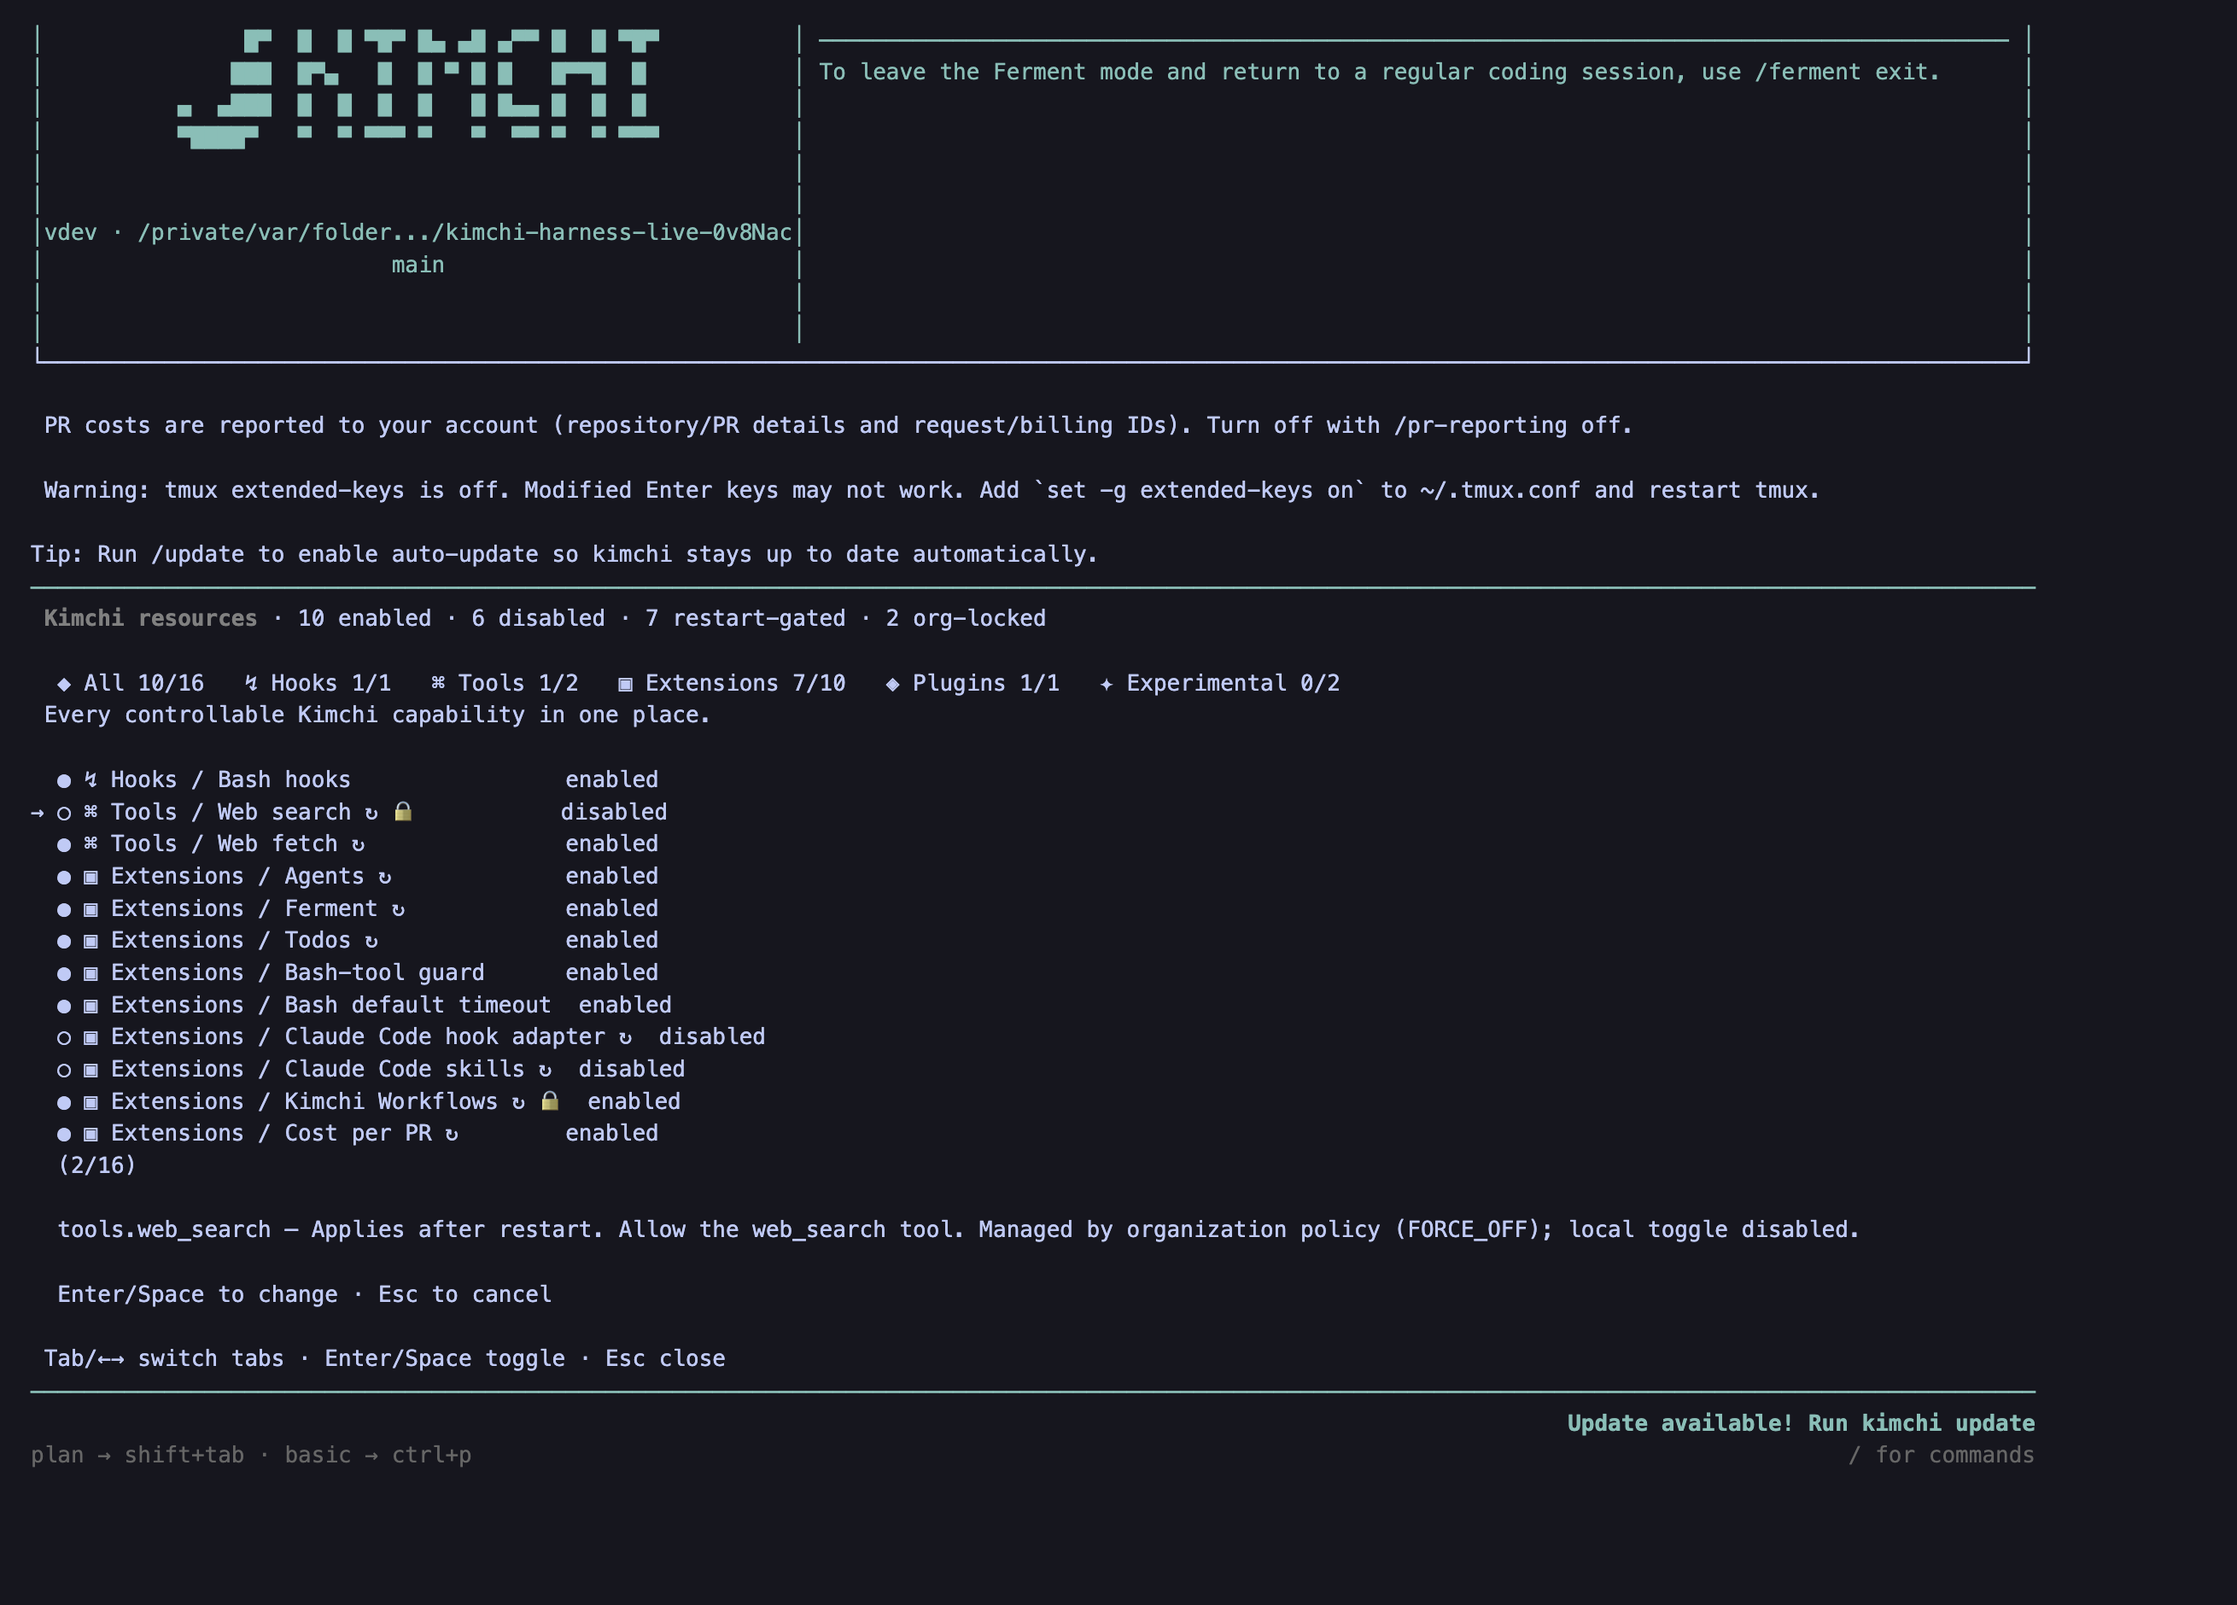
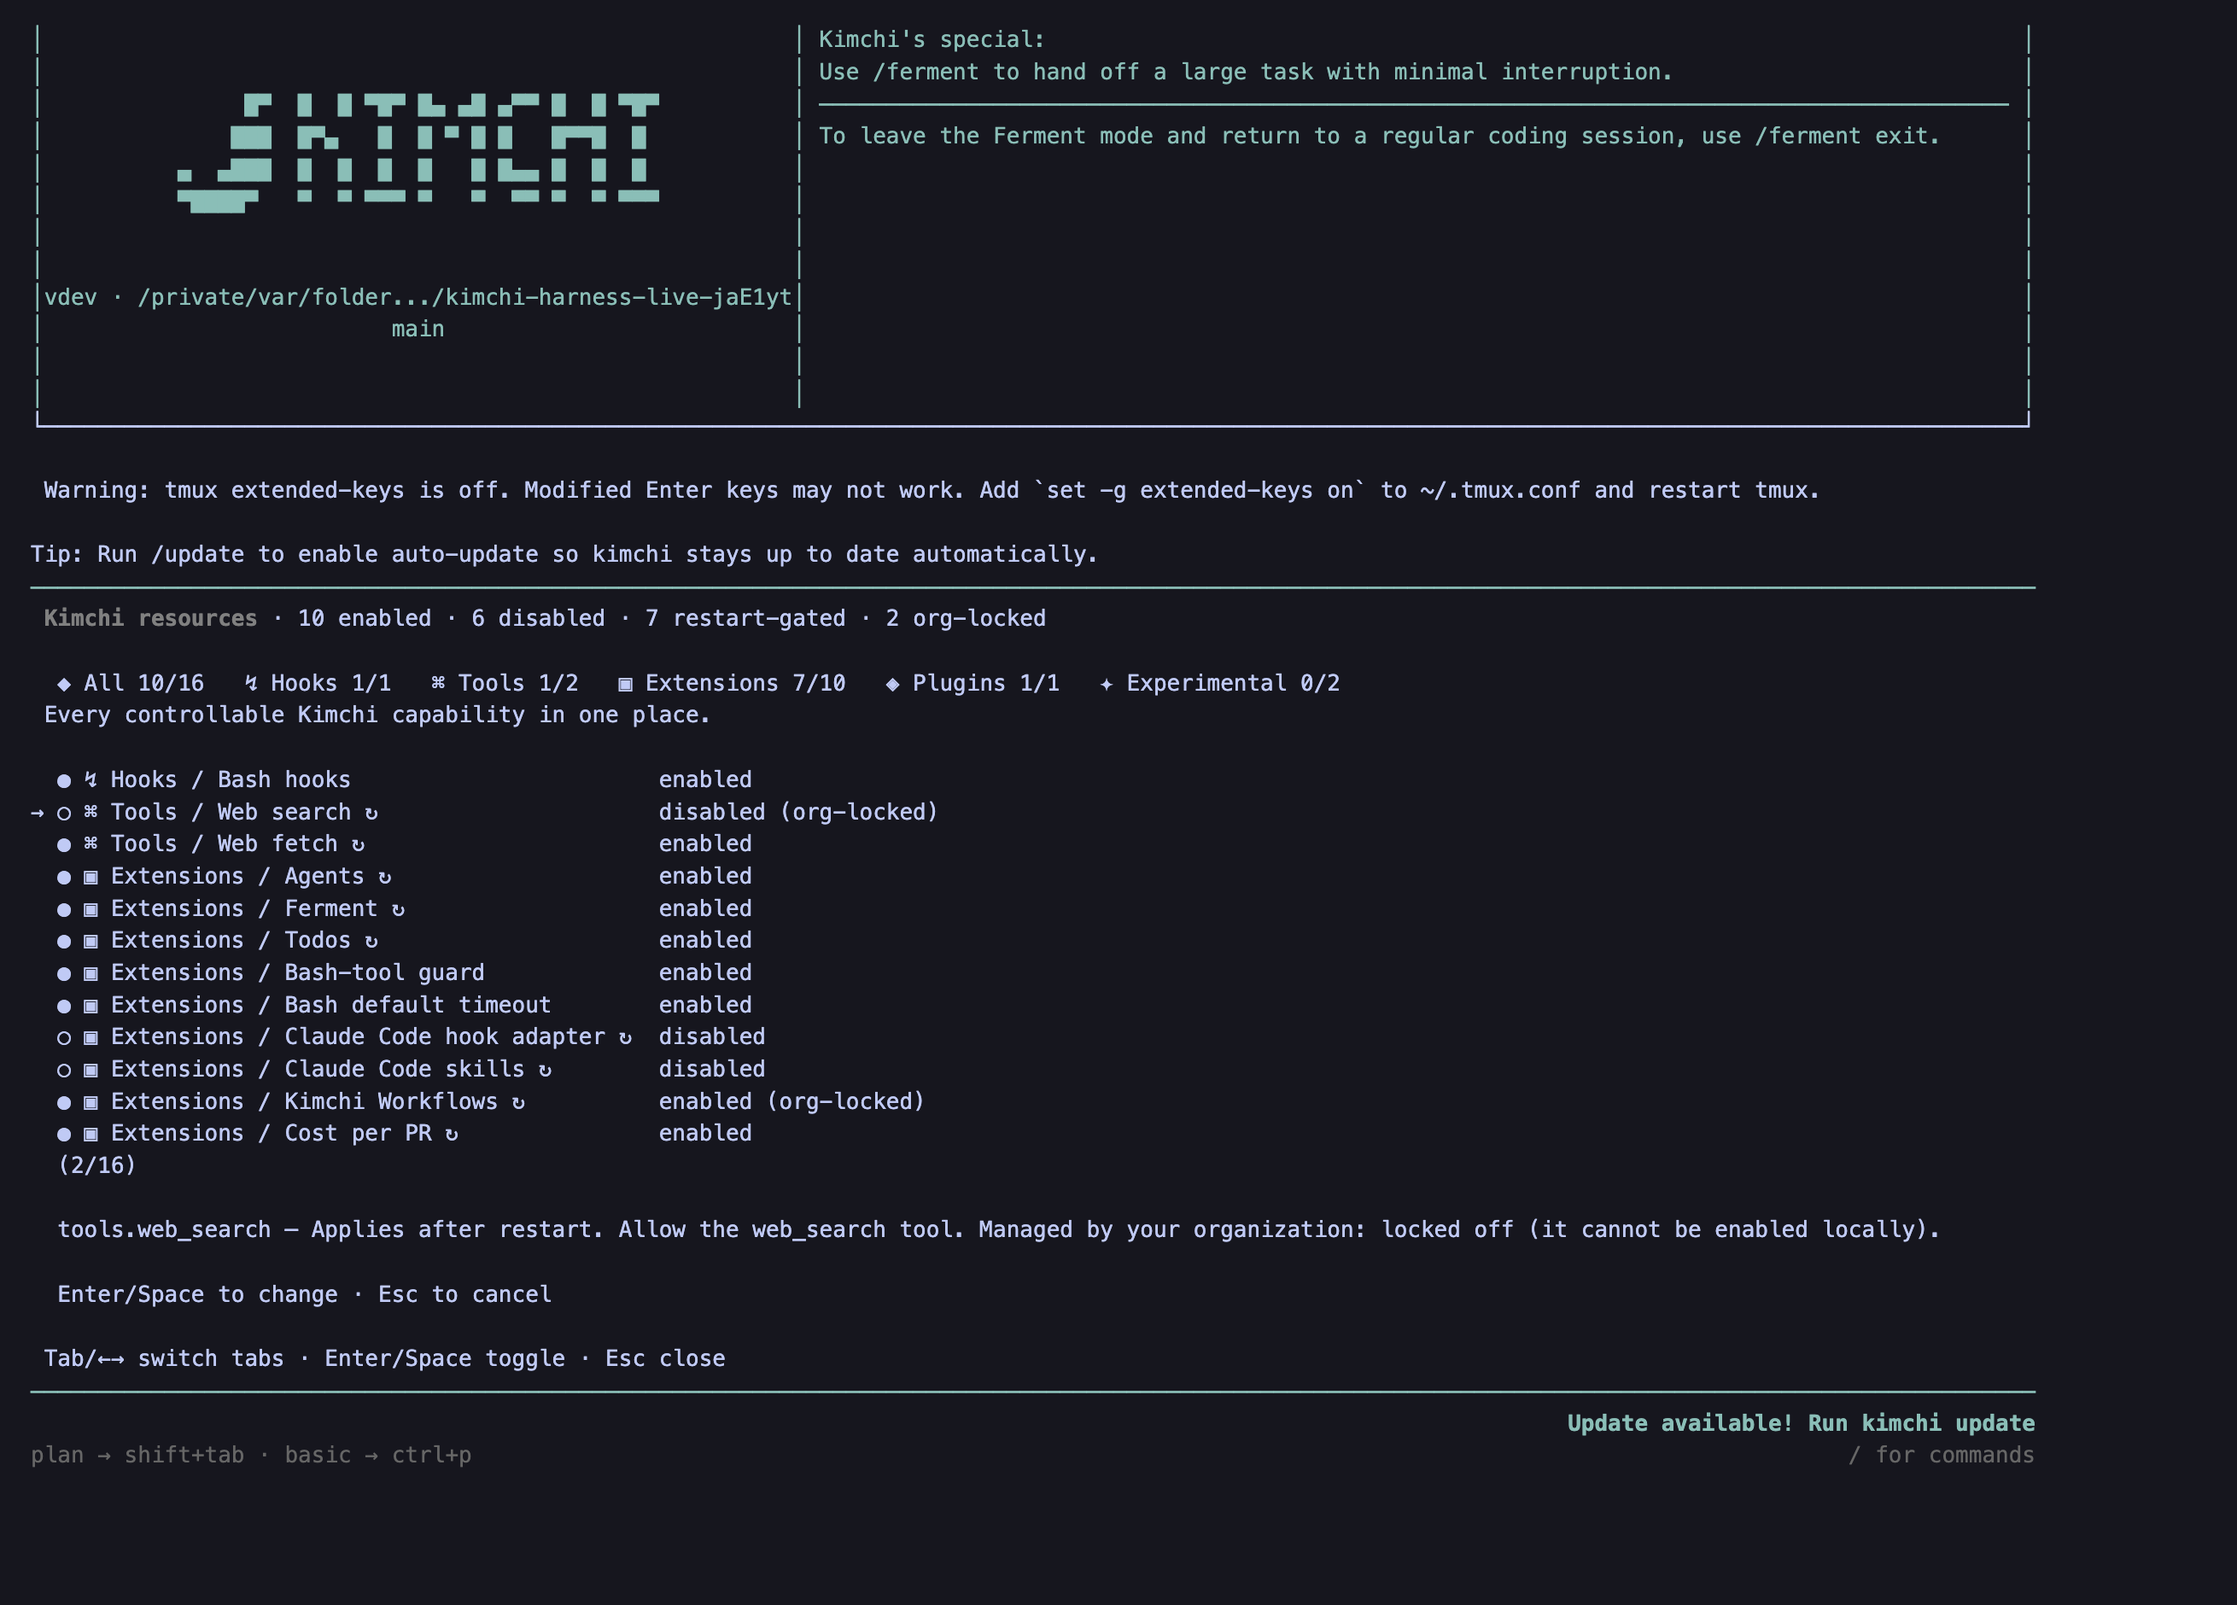
fix(resources): human org-policy wording; aligned /resources value column
User-facing surfaces no longer print raw API enum values: the /resources
value column shows enabled/disabled (org-locked), the selected row's
note says what the lock means in plain words (locked on/off and what it
prevents), and the shared refusal message reads the same way.

The overlay also pads every row label to one shared visible width so
the value column starts at the same column in every row (SettingsList
only pads up to a 36-column cap, which these labels overflow, and the
previous inline lock emoji measured 1 column but rendered as 2).

diff --git a/src/resources/ui.ts b/src/resources/ui.ts
@@ -1,7 +1,22 @@
 import { getSettingsListTheme, type Theme } from "@earendil-works/pi-coding-agent"
-import { Key, matchesKey, type SettingItem, SettingsList, type TUI, truncateToWidth } from "@earendil-works/pi-tui"
+import {
+	Key,
+	matchesKey,
+	type SettingItem,
+	SettingsList,
+	type TUI,
+	truncateToWidth,
+	visibleWidth,
+} from "@earendil-works/pi-tui"
+import type { ResourcePolicy } from "../api/org-settings.js"
 import { getResourceDefinitions, getResourcesByKind, RESOURCE_KINDS } from "./definitions.js"
-import { getResourcePolicy, isResourceEnabled, isResourceLocked, setResourceOverride } from "./store.js"
+import {
+	describeOrgLock,
+	getResourcePolicy,
+	isResourceEnabled,
+	isResourceLocked,
+	setResourceOverride,
+} from "./store.js"
 import type { ResourceDefinition, ResourceKind } from "./types.js"
 
 const VALUE_ENABLED = "enabled"
@@ -121,19 +136,24 @@ export function createResourceManager(
 }
 
 function resourceItems(tab: ResourceTab): SettingItem[] {
-	return resourcesForTab(tab).map((resource) => {
+	const rows = resourcesForTab(tab).map((resource) => {
 		const locked = isResourceLocked(resource.id)
 		return {
 			id: resource.id,
-			label: resourceLabel(resource, tab, locked),
+			label: resourceLabel(resource, tab),
 			description: resourceDescription(resource, locked),
-			currentValue: isResourceEnabled(resource.id) ? VALUE_ENABLED : VALUE_DISABLED,
+			currentValue: resourceValue(resource, locked),
 			// Org-locked rows carry no toggle values: SettingsList treats an
 			// item without `values` as inert on Enter/Space, so the locked state
 			// cannot be changed from the list.
 			values: locked ? undefined : [VALUE_ENABLED, VALUE_DISABLED],
 		}
 	})
+	// Pad every label to one shared visible width so the value column starts
+	// at the same column in every row. SettingsList only pads up to a
+	// 36-column cap, which these labels overflow.
+	const width = Math.max(...rows.map((row) => visibleWidth(row.label)))
+	return rows.map((row) => ({ ...row, label: row.label + " ".repeat(Math.max(0, width - visibleWidth(row.label))) }))
 }
 
 function enabledCount(tab: ResourceTab): string {
@@ -192,18 +212,31 @@ function tabDescription(tab: ResourceTab): string {
 	}
 }
 
-function resourceLabel(resource: ResourceDefinition, tab: ResourceTab, locked = false): string {
+function resourceLabel(resource: ResourceDefinition, tab: ResourceTab): string {
 	const status = isResourceEnabled(resource.id) ? "●" : "○"
 	const restart = resource.restartRequired ? " ↻" : ""
-	const lock = locked ? " 🔒" : ""
-	return `${status} ${kindPrefix(resource.kind, tab)}${resource.label}${restart}${lock}`
+	return `${status} ${kindPrefix(resource.kind, tab)}${resource.label}${restart}`
 }
 
-function resourceDescription(resource: ResourceDefinition, locked = false): string {
+/** The effective state, plus who controls it when the org locks the resource. */
+function resourceValue(resource: ResourceDefinition, locked: boolean): string {
+	const state = isResourceEnabled(resource.id) ? VALUE_ENABLED : VALUE_DISABLED
+	return locked ? `${state} (org-locked)` : state
+}
+
+function resourceDescription(resource: ResourceDefinition, locked: boolean): string {
 	const scope = resource.restartRequired ? "Applies after restart." : "Applies immediately."
-	const orgPolicy = getResourcePolicy(resource.id)
-	const managed = locked && orgPolicy ? ` Managed by organization policy (${orgPolicy}); local toggle disabled.` : ""
+	const managed = locked ? ` ${orgLockNote(getResourcePolicy(resource.id))}` : ""
 	return `${resource.id} — ${scope} ${resource.description}${managed}`
+}
+
+/** Human phrasing for the forced policy — raw enum names are API values. */
+function orgLockNote(policy: ResourcePolicy | undefined): string {
+	if (policy === "FORCE_ON" || policy === "FORCE_OFF") {
+		const tail = policy === "FORCE_ON" ? "it cannot be disabled locally" : "it cannot be enabled locally"
+		return `Managed by your organization: ${describeOrgLock(policy)} (${tail}).`
+	}
+	return ""
 }
 
 function setSelectedResource(list: SettingsList, items: SettingItem[], id: string | undefined): void {

diff --git a/src/resources/ui.test.ts b/src/resources/ui.test.ts
@@ -89,7 +89,7 @@ describe("ResourceManagerComponent", () => {
 		expect(extensions.render(160).join("\n")).not.toContain("extensions.ferment-v2")
 	})
 
-	it("org-locked resources render a lock marker and cannot be toggled", () => {
+	it("org-locked resources show an org-locked value and cannot be toggled", () => {
 		setOrgPolicyForTests({ resources: { "tools.web_search": "FORCE_OFF" } })
 		const theme = {
 			fg: (_color: string, text: string) => text,
@@ -99,9 +99,10 @@ describe("ResourceManagerComponent", () => {
 		const component = createResourceManager({ requestRender: vi.fn() } as unknown as TUI, theme, vi.fn(), "tools")
 
 		const rendered = component.render(160).join("\n")
-		expect(rendered).toContain("🔒")
+		// The value column names the org, not the raw API enum.
+		expect(rendered).toContain("disabled (org-locked)")
 		// The selected (locked) row explains why it cannot be toggled.
-		expect(rendered).toContain("Managed by organization policy (FORCE_OFF); local toggle disabled.")
+		expect(rendered).toContain("Managed by your organization: locked off (it cannot be enabled locally).")
 		expect(rendered).toContain("org-locked")
 
 		// Toggle attempt on the selected locked row: no values to cycle, so the
@@ -109,6 +110,27 @@ describe("ResourceManagerComponent", () => {
 		component.handleInput(" ")
 		expect(isResourceEnabled("tools.web_search")).toBe(false)
 		expect(getResourceOverride("tools.web_search")).toBeUndefined()
+	})
+
+	it("aligns the value column across rows", () => {
+		setOrgPolicyForTests({ resources: { "tools.web_search": "FORCE_OFF" } })
+		const theme = {
+			fg: (_color: string, text: string) => text,
+			bg: (_color: string, text: string) => text,
+			bold: (text: string) => text,
+		} as unknown as Theme
+		const component = createResourceManager({ requestRender: vi.fn() } as unknown as TUI, theme, vi.fn(), "tools")
+
+		const lines = component.render(160).filter((line) => /Web (search|fetch)/.test(line))
+		expect(lines).toHaveLength(2)
+		// Every row's value starts at the same column, locked or not.
+		const columns = lines.map((line) => {
+			const enabled = line.indexOf("enabled")
+			const disabled = line.indexOf("disabled")
+			return enabled >= 0 ? enabled : disabled
+		})
+		expect(columns[0]).toBeGreaterThan(0)
+		expect(new Set(columns).size).toBe(1)
 	})
 })
 

diff --git a/src/resources/extension.test.ts b/src/resources/extension.test.ts
@@ -45,7 +45,7 @@ describe("resourcesExtension", () => {
 	})
 
 	describe("org-lock refusals", () => {
-		const LOCKED_WARNING = "tools.web_search is managed by your organization (FORCE_OFF); it cannot be changed locally."
+		const LOCKED_WARNING = "tools.web_search is locked off by your organization; it cannot be enabled locally."
 
 		// mockReturnValue implementations survive clearAllMocks, so each test in
 		// this group re-pins the unlocked default; refusals override to locked.
@@ -60,7 +60,7 @@ describe("resourcesExtension", () => {
 		])("refuses '%s' on an org-locked resource with a warning and no write", async (args) => {
 			storeMocks.isResourceLocked.mockReturnValue(true)
 			storeMocks.orgLockMessage.mockImplementation(
-				(id: string) => `${id} is managed by your organization (FORCE_OFF); it cannot be changed locally.`,
+				(id: string) => `${id} is locked off by your organization; it cannot be enabled locally.`,
 			)
 			const { api, commands } = makeMockPi()
 			const ctx = makeUIContext()
@@ -81,7 +81,7 @@ describe("resourcesExtension", () => {
 			await commands.get("resources")?.handler("enable tools.web_search", ctx)
 
 			expect(storeMocks.setResourceOverride).toHaveBeenCalledWith("tools.web_search", true)
-			expect(ctx.ui.notify).not.toHaveBeenCalledWith(expect.stringContaining("managed by your organization"), "warning")
+			expect(ctx.ui.notify).not.toHaveBeenCalledWith(expect.stringContaining("by your organization"), "warning")
 		})
 	})
 })

diff --git a/tests/e2e/tui/org-resource-policy.test.ts b/tests/e2e/tui/org-resource-policy.test.ts
@@ -69,21 +69,21 @@ test("org-locked resources show as locked in /resources and a FORCE_OFF tool is 
 			// carry the lock marker. (A FORCE_ON row counting here proves locks
 			// are not only rendered for disabled resources.)
 			expect(viewText(terminal)).toContain("2 org-locked")
-			expect(viewText(terminal)).toContain("🔒")
+			expect(viewText(terminal)).toContain("org-locked)")
 			trace.step("locked rows visible")
 
 			// Selection starts on the first row (hooks.bash); step down to
 			// tools.web_search and read its org-policy note.
 			terminal.keyDown()
-			await waitForText(terminal, "(FORCE_OFF)", { timeoutMs: STREAM_TIMEOUT_MS })
-			trace.step("FORCE_OFF row selected, policy note visible")
+			await waitForText(terminal, "locked off", { timeoutMs: STREAM_TIMEOUT_MS })
+			trace.step("locked-off row selected, policy note visible")
 
 			// The toggle is inert: Enter/Space does not change the locked row's
 			// state — the policy note stays on screen and no override is written
 			// (proven by the unavailable-tool assertions below, which need
 			// FORCE_OFF intact).
 			terminal.submit("")
-			expect(viewText(terminal)).toContain("(FORCE_OFF)")
+			expect(viewText(terminal)).toContain("locked off")
 			trace.step("toggle on the locked row is a no-op")
 
 			terminal.keyEscape()

diff --git a/src/resources/store.ts b/src/resources/store.ts
@@ -52,11 +52,26 @@ export function isResourceLocked(id: string): boolean {
 }
 
 /**
+ * Human wording for a forced policy — the raw FORCE_* enum names are API
+ * values and mean nothing to users, so no user-facing surface prints them.
+ */
+export function describeOrgLock(policy: ResourcePolicy): "locked on" | "locked off" {
+	return policy === "FORCE_ON" ? "locked on" : "locked off"
+}
+
+/**
  * The one org-lock refusal sentence, shared by every surface (store guard,
  * CLI, /resources command, ACP) so the wording cannot drift.
  */
 export function orgLockMessage(id: string): string {
-	return `${id} is managed by your organization (${getResourcePolicy(id)}); it cannot be changed locally.`
+	const policy = getResourcePolicy(id)
+	if (policy === "FORCE_ON") {
+		return `${id} is ${describeOrgLock(policy)} by your organization; it cannot be disabled locally.`
+	}
+	if (policy === "FORCE_OFF") {
+		return `${id} is ${describeOrgLock(policy)} by your organization; it cannot be enabled locally.`
+	}
+	return `${id} is managed by your organization; it cannot be changed locally.`
 }
 
 /**

diff --git a/src/resources/store.test.ts b/src/resources/store.test.ts
@@ -136,8 +136,8 @@ describe("org resource policy", () => {
 	it("refuses override writes to locked resources and works again when the policy lifts", () => {
 		setOrgPolicyForTests({ resources: { "tools.web_search": "FORCE_OFF" } })
 
-		expect(() => setResourceOverride("tools.web_search", true, settingsPath)).toThrow(/managed by your organization/)
-		expect(() => resetResourceOverride("tools.web_search", settingsPath)).toThrow(/managed by your organization/)
+		expect(() => setResourceOverride("tools.web_search", true, settingsPath)).toThrow(/locked off by your organization/)
+		expect(() => resetResourceOverride("tools.web_search", settingsPath)).toThrow(/locked off by your organization/)
 		// Nothing was written.
 		expect(getResourceOverride("tools.web_search", settingsPath)).toBeUndefined()
 

diff --git a/src/commands/resources.test.ts b/src/commands/resources.test.ts
@@ -38,7 +38,7 @@ describe("runResources org-policy refusals", () => {
 		await expect(runResources(["enable", "tools.web_search"])).resolves.toBe(1)
 
 		expect(error).toHaveBeenCalledWith(
-			"tools.web_search is managed by your organization (FORCE_OFF); it cannot be changed locally.",
+			"tools.web_search is locked off by your organization; it cannot be enabled locally.",
 		)
 		expect(getResourceOverride("tools.web_search", join(tempDir, "settings.json"))).toBeUndefined()
 	})

diff --git a/src/modes/acp/ext-methods/resources.test.ts b/src/modes/acp/ext-methods/resources.test.ts
@@ -163,7 +163,7 @@ describe("handleSetResourceEnabled", () => {
 
 		expect(err.code).toBe(-32600)
 		expect(err.message).toContain("tools.web_search")
-		expect(err.message).toContain("FORCE_OFF")
+		expect(err.message).toContain("locked off")
 		expect(existsSync(settingsPath)).toBe(false)
 	})
 
